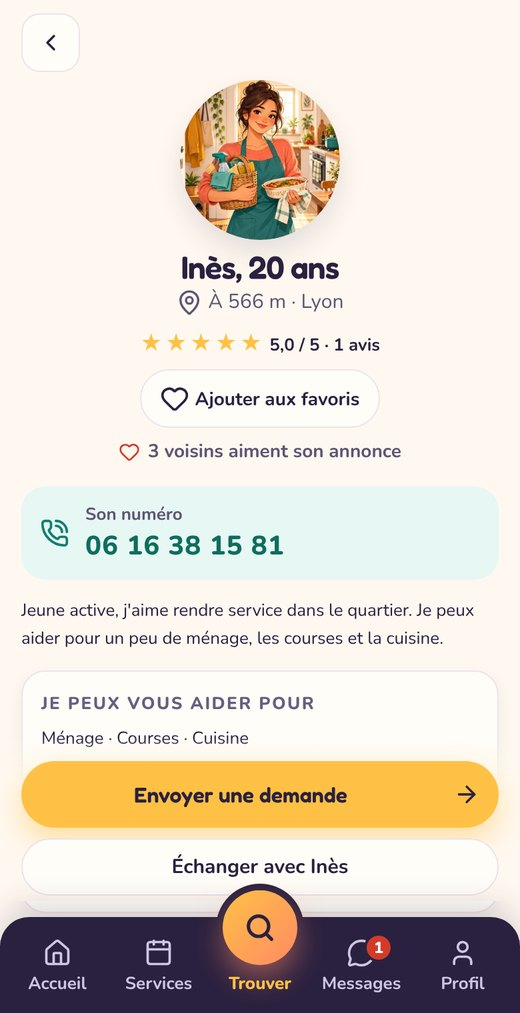
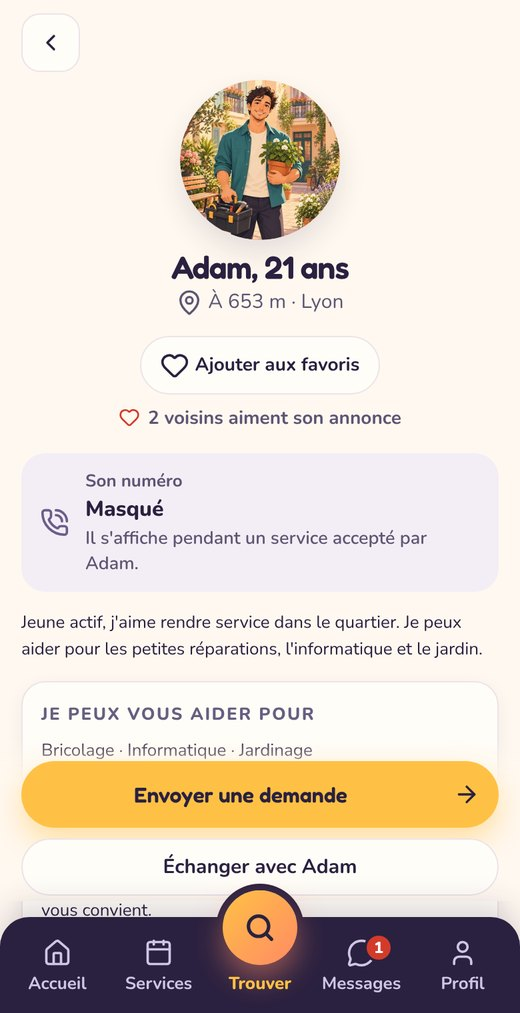
Fonctionnement : sans vidéo, profil avec numéro masqué

Changed region(s): [[0.0308, 0.0612, 0.8923, 0.7651], [0.3077, 0.8263, 0.6769, 0.8875], [0.0923, 0.8875, 0.2769, 0.9181]]

diff --git a/landing/fonctionnement.html b/landing/fonctionnement.html
@@ -58,8 +58,8 @@
           <figcaption><strong>Trouver un jeune</strong><span>Les jeunes disponibles, du plus proche au plus loin.</span></figcaption>
         </figure>
         <figure class="ecran-essentiel">
-          <div class="mock-phone"><img src="assets/ecrans/profil-jeune.jpg" alt="Écran : Son profil"></div>
-          <figcaption><strong>Son profil</strong><span>Services, créneaux et avis des voisins.</span></figcaption>
+          <div class="mock-phone"><img src="assets/ecrans/profil-jeune.jpg" alt="Écran : Son profil, numéro masqué"></div>
+          <figcaption><strong>Son profil</strong><span>Services et avis. Son numéro reste masqué.</span></figcaption>
         </figure>
         <figure class="ecran-essentiel">
           <div class="mock-phone"><img src="assets/ecrans/demande.jpg" alt="Écran : La demande acceptée"></div>
@@ -69,15 +69,6 @@
           <div class="mock-phone"><img src="assets/ecrans/annonce.jpg" alt="Écran : L’annonce du jeune"></div>
           <figcaption><strong>L’annonce du jeune</strong><span>Ses services et ses créneaux, dictés ou écrits.</span></figcaption>
         </figure>
-      </div>
-    </section>
-
-    <section class="studio-panel home-band reveal">
-      <div class="center-title">
-        <h2>Le parcours en vidéo</h2>
-      </div>
-      <div class="video-fonctionnement">
-        <video src="assets/video-presentation-voisin-dor.mp4" controls playsinline preload="metadata" aria-label="Vidéo de présentation Voisin d’Or"></video>
       </div>
     </section>
 

diff --git a/landing/site.css b/landing/site.css
@@ -198,7 +198,5 @@ html:has(.theme-deck){overflow-x:hidden}
 .theme-deck .ecran-essentiel figcaption{display:grid;gap:4px;max-width:230px}
 .theme-deck .ecran-essentiel figcaption strong{font:700 18px var(--font-head);color:var(--ink)}
 .theme-deck .ecran-essentiel figcaption span{font-size:15px;line-height:1.5;color:var(--muted)}
-.theme-deck .video-fonctionnement{display:flex;justify-content:center;margin-top:28px}
-.theme-deck .video-fonctionnement video{width:min(100%,960px);border-radius:28px;background:#000;box-shadow:0 24px 50px -28px rgba(36,26,61,.45)}
 @media(max-width:1100px){.theme-deck .ecrans-essentiels{grid-template-columns:repeat(2,minmax(0,1fr))}}
 @media(max-width:600px){.theme-deck .fonctions{padding:24px 20px}.theme-deck .ecrans-essentiels{gap:24px 14px}.theme-deck .ecran-essentiel .mock-phone{width:100%;max-width:170px}.theme-deck .ecran-essentiel figcaption strong{font-size:16px}.theme-deck .ecran-essentiel figcaption span{font-size:13.5px}}
